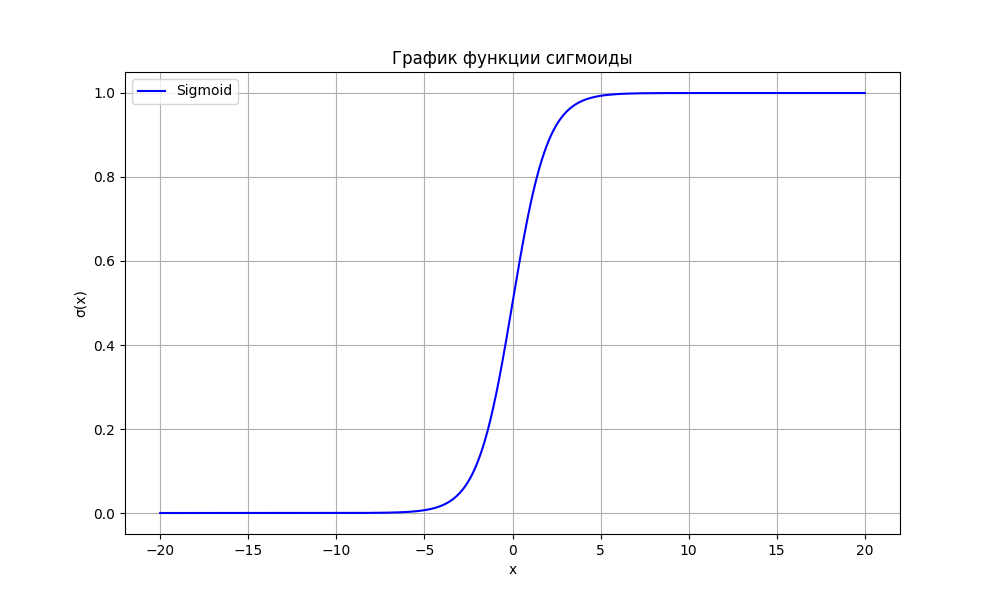
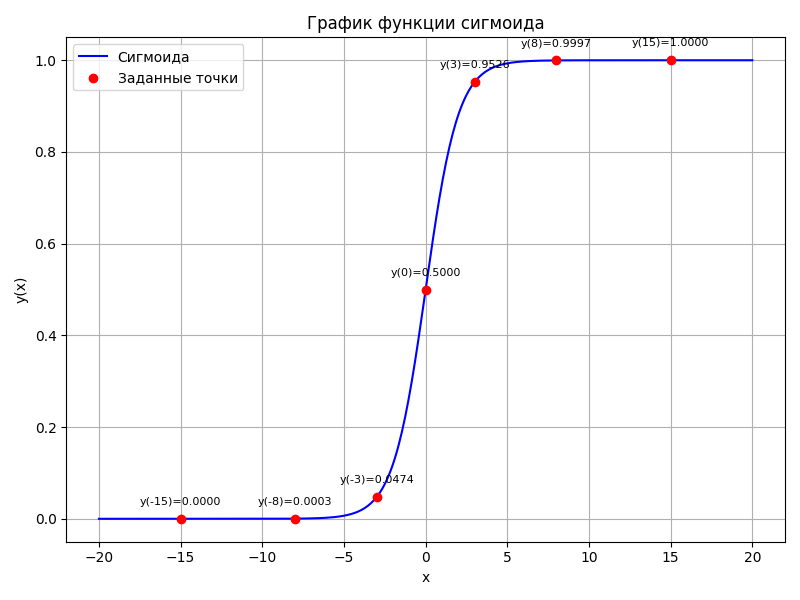
m

diff --git a/5-sigmoid_tanh/main_2.py b/5-sigmoid_tanh/main_2.py
@@ -1,0 +1,119 @@
+"""
+Решение задачи:
+1) Вычисление значений функции сигмоида в заданных точках и построение её графика.
+2) Построение трёх графиков гиперболических функций: sinh(x), cosh(x), tanh(x).
+3) Вычисление производных функции сигмоида и гиперболического тангенса, а также их графиков.
+"""
+import numpy as np
+import matplotlib.pyplot as plt
+
+
+def sigmoid(x):
+    return 1 / (1 + np.exp(-x))
+
+
+# Заданные точки
+points = [0, 3, -3, 8, -8, 15, -15]
+
+print("Вычисление значений функции сигмоида в заданных точках с 15 знаками после запятой:")
+for x in points:
+    y = sigmoid(x)
+    print(f"y({x}) = {y:.15f}")
+
+# Построение графика функции сигмоида
+x_vals = np.linspace(-20, 20, 400)
+y_vals = sigmoid(x_vals)
+
+plt.figure(figsize=(8, 6))
+plt.plot(x_vals, y_vals, label='Сигмоида', color='blue')
+plt.scatter(points, [sigmoid(x) for x in points], color='red', zorder=5, label='Заданные точки')
+for point in points:
+    plt.annotate(f'y({point})={sigmoid(point):.4f}', (point, sigmoid(point)),
+                 textcoords="offset points", xytext=(0, 10), ha='center', fontsize=8)
+plt.title('График функции сигмоида')
+plt.xlabel('x')
+plt.ylabel('y(x)')
+plt.grid(True)
+plt.legend()
+plt.tight_layout()
+plt.savefig('sigmoid_plot.png')  # Сохранение графика сигмоида
+
+# 2. Построение трёх графиков гиперболических функций на одной картинке с использованием plt.subplot
+
+# Диапазон значений x для гиперболических функций
+x_hyper = np.linspace(-5, 5, 400)
+
+# Вычисление значений гиперболических функций
+sinh_vals = np.sinh(x_hyper)
+cosh_vals = np.cosh(x_hyper)
+tanh_vals = np.tanh(x_hyper)
+
+# Создание подграфиков
+fig, axs = plt.subplots(3, 1, figsize=(10, 15))
+
+# 2.1. График sinh(x)
+axs[0].plot(x_hyper, sinh_vals, label='sinh(x)', color='green', linewidth=2)
+axs[0].set_title('График функции sinh(x)')
+axs[0].set_xlabel('x')
+axs[0].set_ylabel('sinh(x)')
+axs[0].grid(True)
+axs[0].legend()
+
+# 2.2. График cosh(x)
+axs[1].plot(x_hyper, cosh_vals, label='cosh(x)', color='orange', linewidth=2)
+axs[1].set_title('График функции cosh(x)')
+axs[1].set_xlabel('x')
+axs[1].set_ylabel('cosh(x)')
+axs[1].grid(True)
+axs[1].legend()
+
+# 2.3. График tanh(x)
+axs[2].plot(x_hyper, tanh_vals, label='tanh(x)', color='purple', linewidth=2)
+axs[2].set_title('График функции tanh(x)')
+axs[2].set_xlabel('x')
+axs[2].set_ylabel('tanh(x)')
+axs[2].grid(True)
+axs[2].legend()
+
+plt.tight_layout()
+plt.savefig('hyperbolic_functions_subplot.png')  # Сохранение графиков гиперболических функций
+
+
+# 3. Вычисление производных сигмоида и гиперболического тангенса и их графики
+
+def sigmoid_derivative_np(x):
+    """Производная функции сигмоида для массивов NumPy."""
+    s = sigmoid(x)
+    return s * (1 - s)
+
+
+def tanh_derivative_np(x):
+    """Производная функции гиперболического тангенса для массивов NumPy."""
+    t = np.tanh(x)
+    return 1 - t ** 2
+
+
+# Вычисление производных для заданных точек
+# print("\nВычисление производных функций в заданных точках:")
+# for x in points:
+#     sig_der = sigmoid_derivative_np(x)
+#     tanh_der = 1 - np.tanh(x) ** 2
+#     print(f"y'(сигмоида)({x}) = {sig_der:.15f}, y'(tanh)({x}) = {tanh_der:.15f}")
+
+# Диапазон значений x для производных
+x_der = np.linspace(-5, 5, 400)
+
+# Вычисление значений производных
+sig_der_vals = sigmoid_derivative_np(x_der)
+tanh_der_vals = tanh_derivative_np(x_der)
+
+plt.figure(figsize=(10, 6))
+plt.plot(x_der, sig_der_vals, label="y'(сигмоида)", color='red', linewidth=2)
+plt.plot(x_der, tanh_der_vals, label="y'(tanh(x))", color='blue', linewidth=2)
+plt.title('Графики производных функций сигмоида и tanh(x)')
+plt.xlabel('x')
+plt.ylabel('Значение производной')
+plt.grid(True)
+plt.legend()
+plt.tight_layout()
+plt.savefig('derivatives_plot.png')  # Сохранение графика производных

diff --git a/lab-3/solution.py b/lab-3/solution.py
@@ -1,0 +1,88 @@
+import matplotlib.pyplot as plt
+import random
+
+# Координаты точек
+naughts = [(-1, 1.1), (-0.7, 0.8), (-0.4, 1.2), (-0.1, 0.1), (0.3, 0.9)]
+crosses = [(0.65, -1.45), (0.7, -0.40), (0.95, -0.9), (1.35, -0.2), (1.37, -0.9)]
+
+# Добавляем фиктивный столбец x0 = 1
+data = [(1, x1, x2, 1) for x1, x2 in crosses] + [(1, x1, x2, 0) for x1, x2 in naughts]
+
+# Инициализация весов
+weights = [random.uniform(-1, 1) for _ in range(3)]
+
+
+# Функция для обучения персептрона
+def train_perceptron(data, weights):
+    iteration = 0
+    is_converged = False
+    while not is_converged:
+        iteration += 1
+        print(f"\nИтерация {iteration}")
+        print("Класс | x0  | x1    | x2    | w0     | w1     | w2     | z      | y  | Верно?")
+        print("-" * 80)
+
+        is_converged = True
+        for x0, x1, x2, y_true in data:
+            z = weights[0] * x0 + weights[1] * x1 + weights[2] * x2
+            y_pred = 1 if z >= 0 else 0
+            is_correct = y_pred == y_true
+
+            # Форматирование для отображения класса
+            class_label = '+' if y_true == 1 else '-'
+
+            # Вывод текущей строки таблицы
+            print(
+                f"   {class_label}  | {x0:3} | {x1:5.2f} | {x2:5.2f} | {weights[0]:6.2f} | {weights[1]:6.2f} | {weights[2]:6.2f} | {z:6.2f} |  {y_pred} |  {'+' if is_correct else '-'}")
+
+            if not is_correct:
+                is_converged = False
+                if y_pred == 0:
+                    weights[0] += x0
+                    weights[1] += x1
+                    weights[2] += x2
+                else:
+                    weights[0] -= x0
+                    weights[1] -= x1
+                    weights[2] -= x2
+
+    return weights
+
+
+# Обучение
+weights = train_perceptron(data, weights)
+
+
+# Построение разделяющей прямой
+def plot_decision_boundary(weights):
+    x = [-1.5, 2]  # Диапазон для x1
+    y = [-(weights[0] + weights[1] * x_val) / weights[2] for x_val in x]  # Расчет x2
+    plt.plot(x, y, 'r-', label='Decision Boundary')
+
+
+# График
+plt.figure(figsize=(8, 6))
+for x1, x2 in crosses:
+    plt.scatter(x1, x2, color='blue', label='Crosses' if x1 == crosses[0][0] else "")
+for x1, x2 in naughts:
+    plt.scatter(x1, x2, color='green', label='Naughts' if x1 == naughts[0][0] else "")
+plot_decision_boundary(weights)
+
+# Установка масштаба 1:1
+plt.gca().set_aspect('equal', adjustable='box')
+
+# Добавляем оси
+plt.axhline(0, color='black', linewidth=0.5)
+plt.axvline(0, color='black', linewidth=0.5)
+
+# Включаем сетку
+plt.grid(True)
+
+# Добавляем подписи и легенду
+plt.xlabel('$x_1$')
+plt.ylabel('$x_2$')
+plt.legend()
+plt.title('Perceptron Decision Boundary')
+
+# Показываем график
+plt.show()
